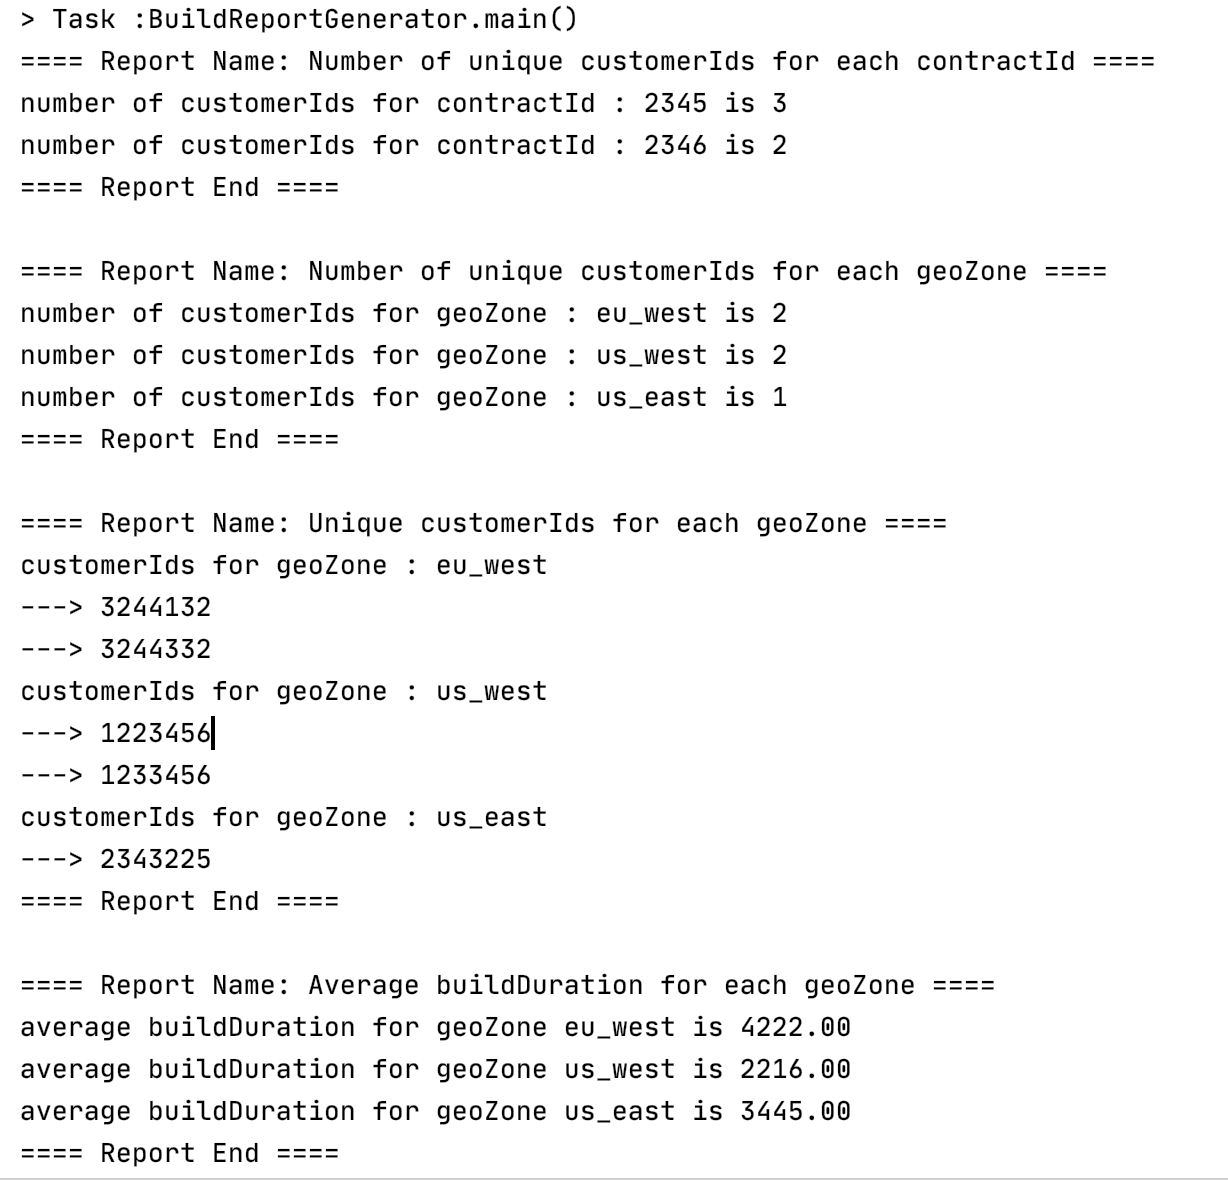
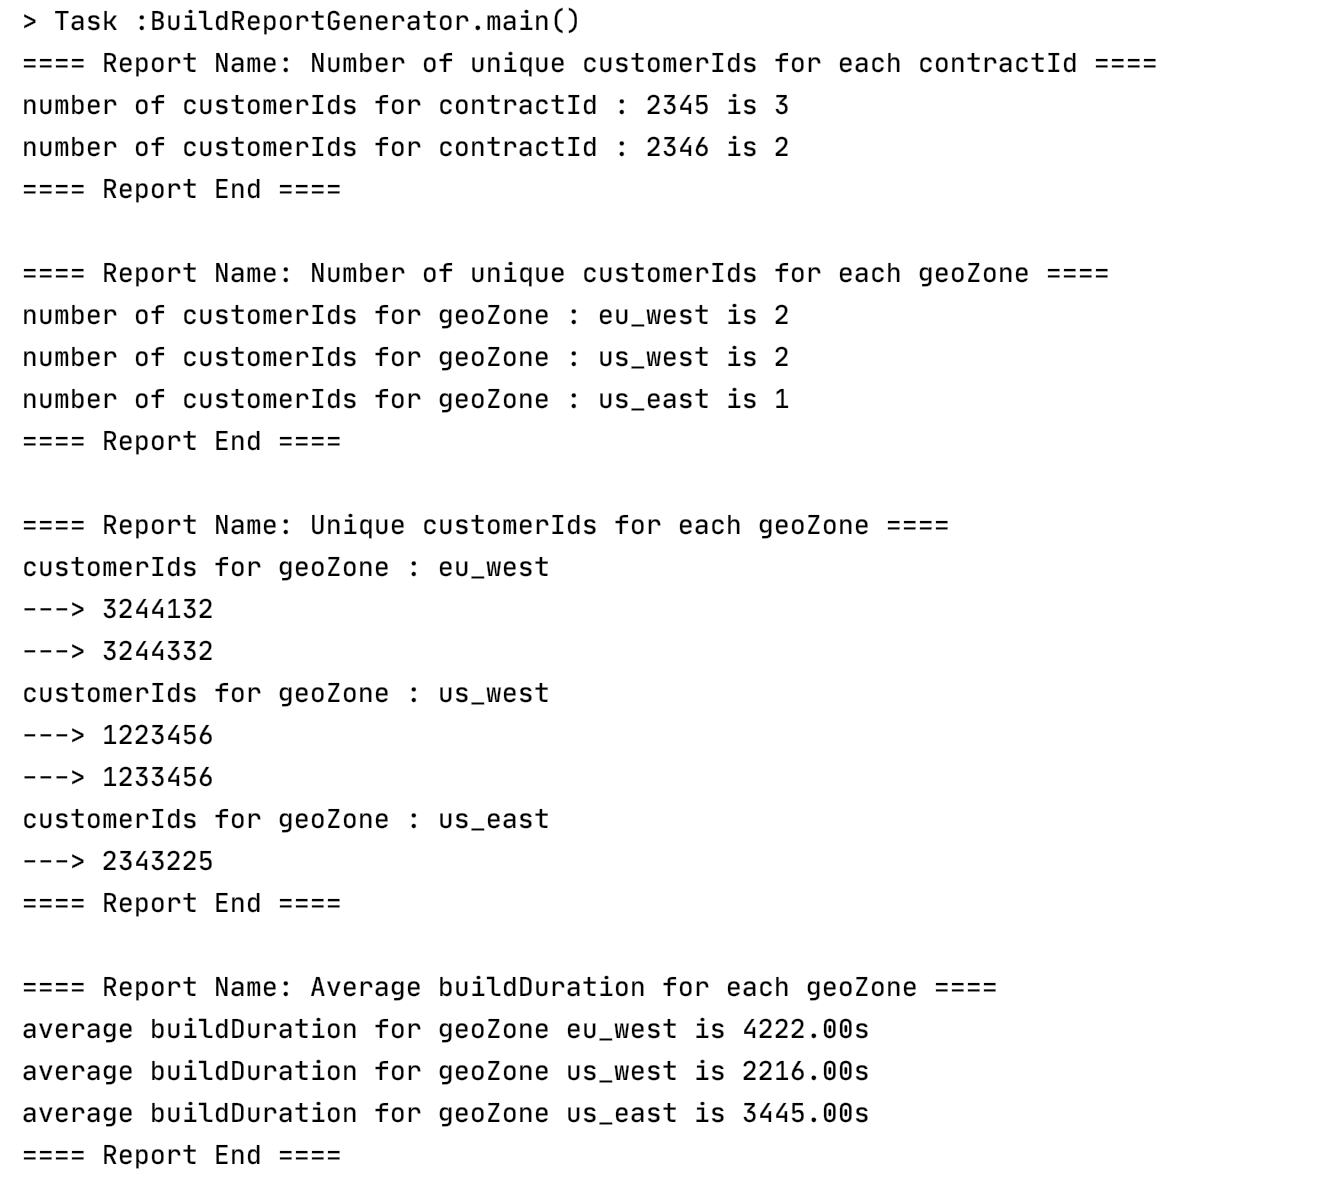
feat: adding "s" postfix to the average build duration.

diff --git a/src/main/java/au/com/lakindum/constructionmanager/service/report/impl/ConsoleReportPrinterServiceImpl.java b/src/main/java/au/com/lakindum/constructionmanager/service/report/impl/ConsoleReportPrinterServiceImpl.java
@@ -53,7 +53,7 @@ public class ConsoleReportPrinterServiceImpl implements ReportPrinterService {
                     totalBuildDuration = totalBuildDuration.add(new BigDecimal(buildDuration));
                 }
                 BigDecimal averageBuildDuration = totalBuildDuration.divide(new BigDecimal(buildDurations.size()), 2, BigDecimal.ROUND_HALF_UP);
-                System.out.println("average buildDuration for geoZone " + geoZone + " is " + averageBuildDuration);
+                System.out.println("average buildDuration for geoZone " + geoZone + " is " + averageBuildDuration + "s");
             });
         System.out.println("==== Report End ====");
     }
